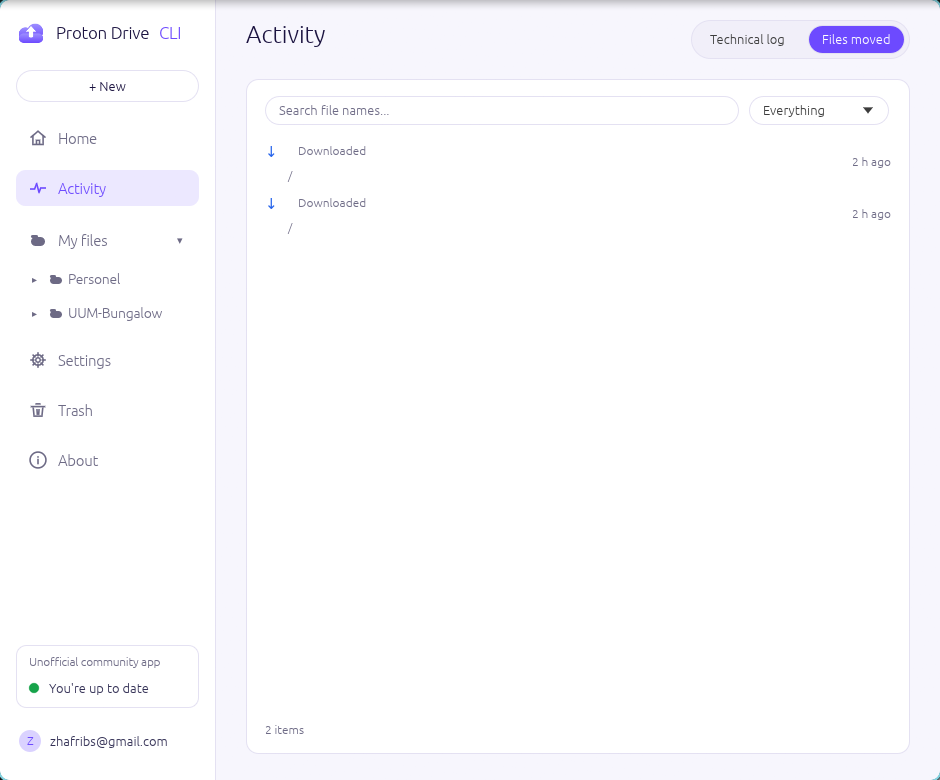
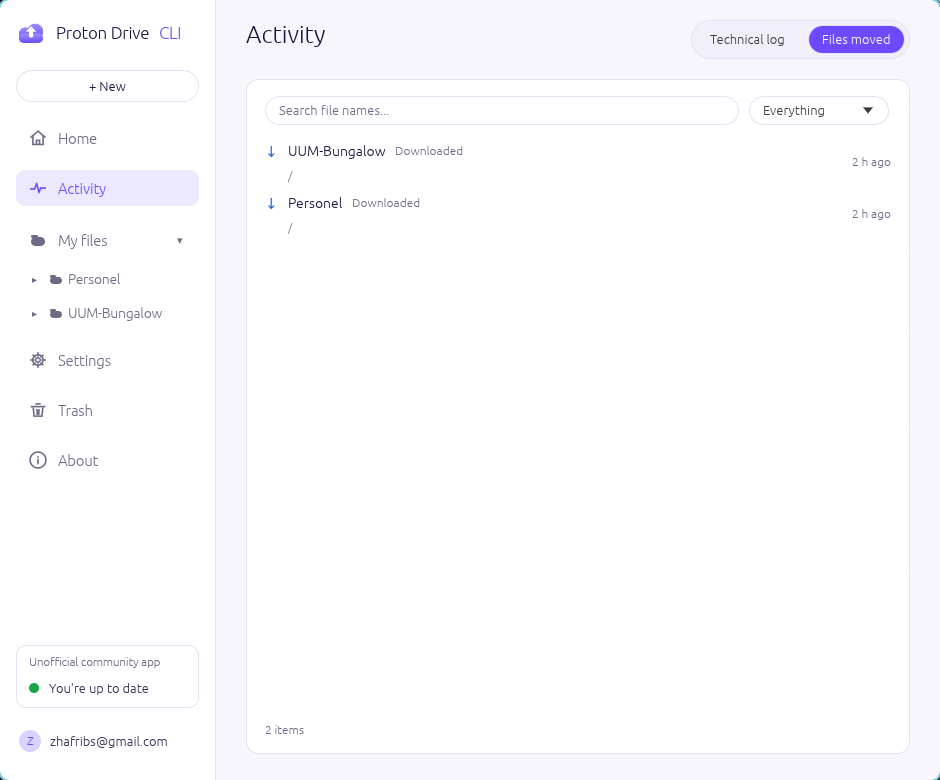
gui: real names for folder changes on Home/Activity - 3.16.3
- The engine logs whole-subtree downloads as "DOWNLOAD dir  <path>/
  (whole subtree)" and scope-marks trash/mkdir lines ("remote", "local");
  the row parser passed those tokens through, so Home showed a bare
  "Downloaded" with no name and Activity rendered the row as just "/".
  A shared cleanup now reduces every change line to the plain path
  (scope/type word, trailing slash, conflict annotation), used by both
  the Home/Activity rows and the notifications' name computation.
- New test covering subtree, scope-word, conflict and no-verb bodies
  (34 tests pass).
- README screenshots regenerated with the fixed rows (Home shows the
  folder names, Activity shows name + root parent).

Changed region(s): [[0.0, 0.0, 1.0, 0.0308], [0.3085, 0.1846, 0.4936, 0.2154], [0.3085, 0.2462, 0.4319, 0.2769]]

diff --git a/gui/src/journal.rs b/gui/src/journal.rs
@@ -25,13 +25,14 @@ pub fn ts(line: &str) -> Option<DateTime<FixedOffset>> {
 
 /// Basename of the change path inside a body (`CONFLICT a/b.md (kept)` ->
 /// "b.md", capped at 60 chars); "" when the body carries no change verb.
-/// Matches the PyQt notification's `name` computation.
+/// Shares the row parser's cleanup (scope words, trailing slash,
+/// annotations), so folder and conflict notifications show real names.
 pub fn change_name(body: &str) -> String {
     change_re()
         .captures(body)
         .map(|c| {
-            let full = c[2].trim();
-            let base = full.rsplit('/').next().unwrap_or(full);
+            let full = clean_change_body(&strip_trailing_annotation(c[2].trim()));
+            let base = full.rsplit('/').next().unwrap_or(&full);
             base.chars().take(60).collect()
         })
         .unwrap_or_default()
@@ -119,7 +120,7 @@ pub fn parse_changes(lines: &[String]) -> Vec<ChangeRow> {
                 "TRASH" => ChangeKind::Removed,
                 _ => ChangeKind::Conflict,
             };
-            let rest = strip_trailing_annotation(rest);
+            let rest = clean_change_body(&strip_trailing_annotation(rest));
             let name = rest.rsplit('/').next().unwrap_or(&rest).to_string();
             rows.push(ChangeRow { kind, name, rel: rest, ts: ts(ln) });
         }
@@ -136,6 +137,35 @@ fn strip_trailing_annotation(rest: &str) -> String {
     }
 }
 
+/// Reduce an engine change body to the plain path. The engine logs extra
+/// shapes the row UI must not show verbatim:
+/// * type/scope words - `dir  Personel/ (whole subtree)`,
+///   `TRASH remote personel/x`, `TRASH local  x`, `MKDIR  remote x`;
+/// * a trailing `/` on whole-subtree downloads (which used to leave the
+///   name empty and made Activity render just "/").
+/// A conflict's `: remote kept as ...` tail is cut at the exact phrase.
+/// Root files genuinely named `dir x.md` lose their first word - the same
+/// trade-off Qt made - paths never begin with those words plus a space in
+/// practice.
+fn clean_change_body(rest: &str) -> String {
+    let mut s = rest.to_string();
+    if let Some(i) = s.find(": remote kept as ") {
+        s.truncate(i);
+    }
+    loop {
+        let trimmed = s.trim_start();
+        let stripped = ["dir", "file", "remote", "local"]
+            .iter()
+            .find_map(|w| trimmed.strip_prefix(w))
+            .filter(|r| r.starts_with(' ') || r.starts_with('\t'));
+        match stripped {
+            Some(r) => s = r.to_string(),
+            None => break,
+        }
+    }
+    s.trim().trim_end_matches('/').to_string()
+}
+
 #[cfg(test)]
 mod tests {
     use super::*;
@@ -149,9 +179,10 @@ mod tests {
             "2026-10-19T23:22:12+08:00 host proton-sync[123]: MKDIR personel/newdir".into(),
             "2026-10-19T23:22:15+08:00 host proton-sync[123]: CONFLICT personel/both.md (kept both)".into(),
             "2026-10-19T23:22:16+08:00 host proton-sync[123]: cycle complete, no changes".into(),
+            "2026-10-20T19:38:32+08:00 host proton-sync[123]: DOWNLOAD dir  UUM-Bungalow/ (whole subtree)".into(),
         ];
         let rows = parse_changes(&lines);
-        assert_eq!(rows.len(), 5);
+        assert_eq!(rows.len(), 6);
         // chronological order, like the PyQt app's _changes
         assert_eq!(rows[0].kind, ChangeKind::Uploaded);
         assert_eq!(rows[0].name, "notes.md");
@@ -160,11 +191,39 @@ mod tests {
         assert_eq!(rows[1].dir(), Dir::Down);
         assert_eq!(rows[2].kind, ChangeKind::Removed);
         assert_eq!(rows[2].dir(), Dir::Other);
+        // "TRASH remote ..." scope word stripped, name kept
+        assert_eq!(rows[2].name, "old.txt");
+        assert_eq!(rows[2].rel, "personel/old.txt");
         assert_eq!(rows[3].rel, "personel/newdir");
         assert_eq!(rows[4].kind, ChangeKind::Conflict);
         // trailing "(...)" annotation stripped
         assert_eq!(rows[4].rel, "personel/both.md");
         assert_eq!(rows[4].dir(), Dir::Warn);
+        // whole-subtree download: "dir " token + trailing slash gone, so the
+        // row has a real name (it used to render blank on Home and "/" on
+        // Activity)
+        assert_eq!(rows[5].kind, ChangeKind::Downloaded);
+        assert_eq!(rows[5].name, "UUM-Bungalow");
+        assert_eq!(rows[5].rel, "UUM-Bungalow");
+    }
+
+    #[test]
+    fn change_names_cover_engine_shapes() {
+        // plain file path
+        assert_eq!(change_name("UPLOAD personel/notes.md"), "notes.md");
+        // subtree download: type token, trailing slash, annotation
+        assert_eq!(
+            change_name("DOWNLOAD dir  Personel/ (whole subtree)"),
+            "Personel"
+        );
+        // conflict: engine's colon tail and the "(kept ...)" form
+        assert_eq!(
+            change_name("CONFLICT personel/both.md: remote kept as 'both (conflict 1700)'"),
+            "both.md"
+        );
+        assert_eq!(change_name("CONFLICT a/b.md (kept)"), "b.md");
+        // no verb at all
+        assert_eq!(change_name("cycle complete, no changes"), "");
     }
 
     #[test]

diff --git a/gui/src/main.rs b/gui/src/main.rs
@@ -26,7 +26,7 @@ use eframe::egui;
 use std::path::{Path, PathBuf};
 
 /// The GUI's own version (the release tag is `v<CLI>-gui<GUI>`).
-pub const GUI_VERSION: &str = "3.16.2";
+pub const GUI_VERSION: &str = "3.16.3";
 
 /// The systemd user unit path (shared with `service.rs`).
 pub fn service_unit_path() -> PathBuf {

diff --git a/README.md b/README.md
@@ -14,19 +14,19 @@ setup, no Qt — the app and its sync runtime travel inside the AppImage.
 > Unofficial. Not affiliated with, endorsed by, sponsored or supported by
 > Proton AG. "Proton Drive" is a trademark of Proton AG.
 
-**Get it:** [`ProtonDrive-CLI-0.9.0-GUI-3.16.2-x86_64.AppImage`](https://github.com/zhafribs/Proton-Drive-Linux-Cli/releases/latest)
+**Get it:** [`ProtonDrive-CLI-0.9.0-GUI-3.16.3-x86_64.AppImage`](https://github.com/zhafribs/Proton-Drive-Linux-Cli/releases/latest)
 (≈80 MB · x86_64 · [all releases](https://github.com/zhafribs/Proton-Drive-Linux-Cli/releases))
 
 | Inside the file | Version |
 | --- | --- |
 | Proton Drive CLI — official, unmodified, SHA-512-verified at build | **0.9.0** (2026-10-05) |
-| Desktop app + folder-sync engine (this repo) | **3.16.2** |
+| Desktop app + folder-sync engine (this repo) | **3.16.3** |
 
 ## Start here
 
 1. Download the AppImage and make it executable once:
    ```bash
-   chmod +x ProtonDrive-CLI-0.9.0-GUI-3.16.2-x86_64.AppImage
+   chmod +x ProtonDrive-CLI-0.9.0-GUI-3.16.3-x86_64.AppImage
    ```
 2. Double-click it. Click **Sign in** — Proton's official login opens in a
    terminal (that's how their CLI does 2FA); the app picks the session up.
@@ -42,9 +42,9 @@ Fedora 32 era or newer). If it won't start you're missing FUSE — Arch
 The upstream CLI is untouched — arguments pass straight through:
 
 ```bash
-./ProtonDrive-CLI-0.9.0-GUI-3.16.2-x86_64.AppImage --help
-./ProtonDrive-CLI-0.9.0-GUI-3.16.2-x86_64.AppImage auth login   # the app's sign-in
-./ProtonDrive-CLI-0.9.0-GUI-3.16.2-x86_64.AppImage filesystem list /
+./ProtonDrive-CLI-0.9.0-GUI-3.16.3-x86_64.AppImage --help
+./ProtonDrive-CLI-0.9.0-GUI-3.16.3-x86_64.AppImage auth login   # the app's sign-in
+./ProtonDrive-CLI-0.9.0-GUI-3.16.3-x86_64.AppImage filesystem list /
 ```
 
 `auth login`, `filesystem …`, `sharing …`, `photo timeline`, `takeout run …` —

diff --git a/CHANGELOG.md b/CHANGELOG.md
@@ -1,3 +1,15 @@
+## 3.16.3 — 2026-10-20
+
+- **Folder changes finally show their name.** The engine logs whole-subtree
+  downloads as `DOWNLOAD dir  <path>/ (whole subtree)` and marks trash/mkdir
+  lines with a `remote`/`local` scope word; the row parser passed those
+  tokens through verbatim, so Home showed a bare "Downloaded" with no name
+  and Activity rendered the row as just "/". The parser (and the
+  notifications' name computation) now reduce every change line to the
+  plain path - scope/type word, trailing slash and conflict annotation
+  removed - so rows read "Personel", "old.txt" and the parent line lists
+  the real folder chain.
+
 ## 3.16.2 — 2026-10-20
 
 - **The files toolbar is icon-only now.** Refresh moved to the front of
